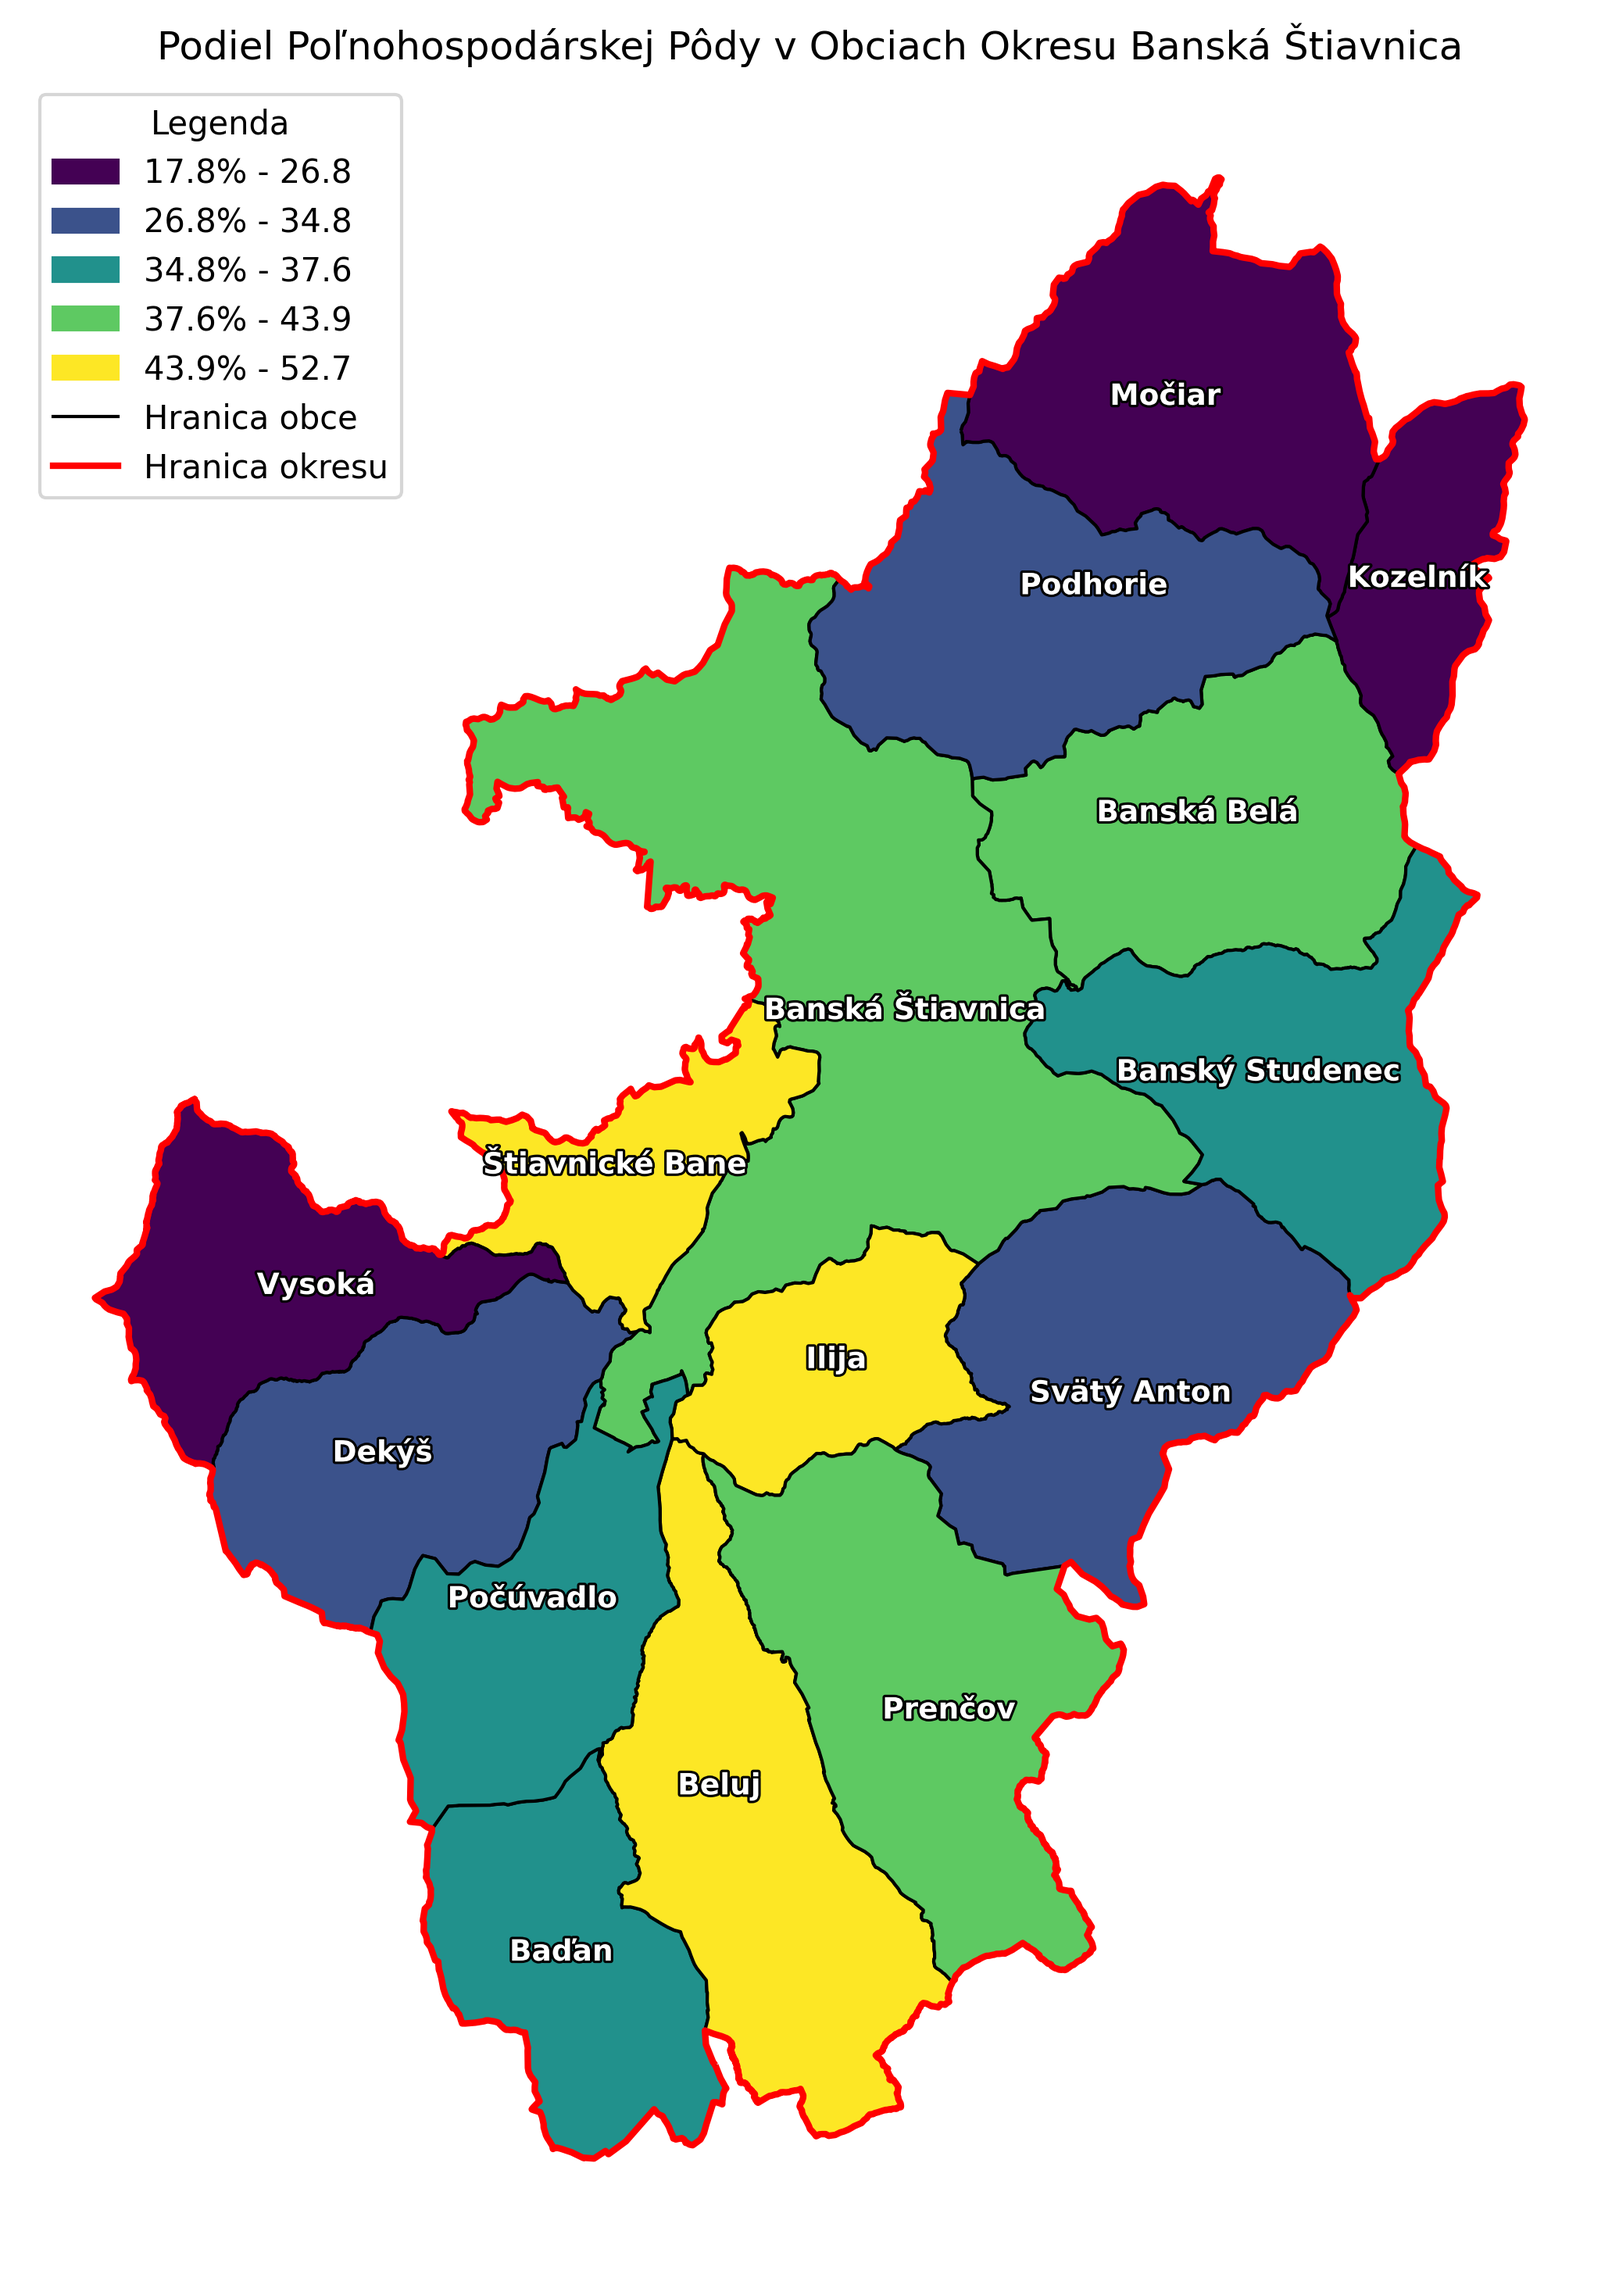
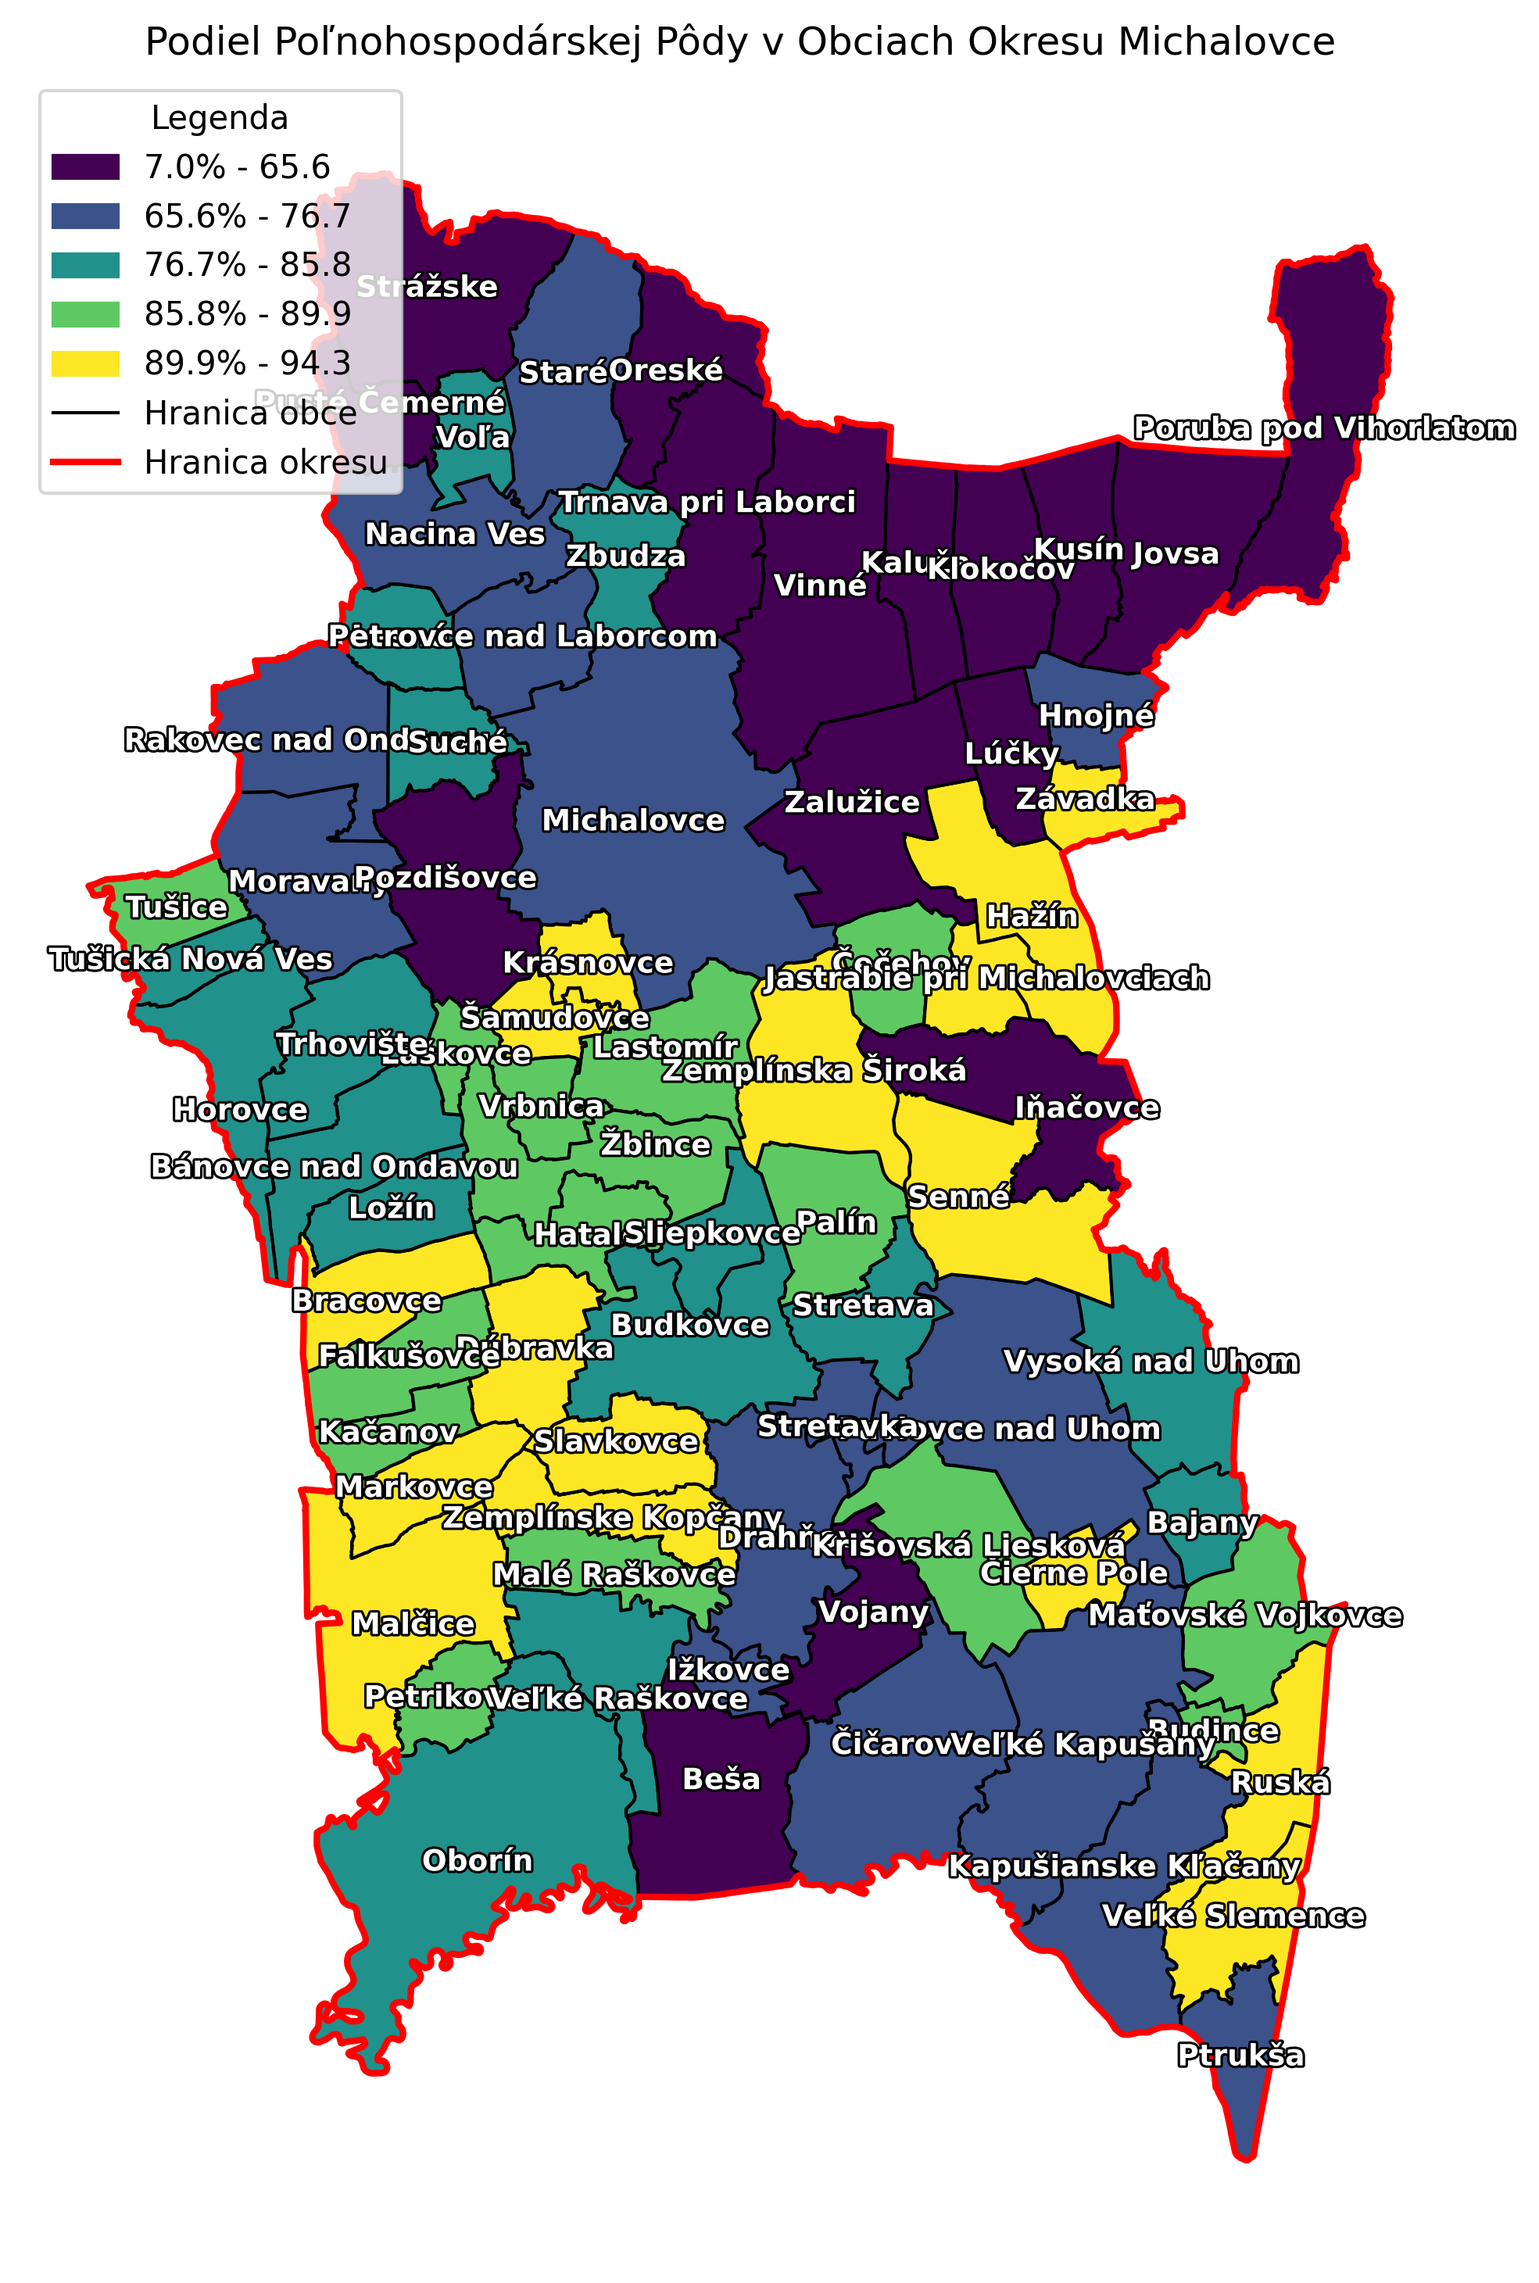
feat: full dynamic data fetching implemented, tested

diff --git a/bs.py b/bs.py
@@ -8,16 +8,16 @@ import zipfile
 import io
 import ckan_api
 import shp_api
+import datacube_api
 
 # Constants and Configurations
 CSV_FILE_PATH = 'data.csv'
 SHP_FILE_PATH = 'shp/obec_0.shp'
-DISTRICT_NAME = 'Banská Štiavnica'
 COLUMN_NAME = 'Podiel poľnohosp. pôdy z celkovej plochy (%)'
 NUM_CLASSES = 5
 COLOR_MAP = plt.colormaps['viridis']
 OUTPUT_FILE = 'mapa.png'
-MAP_TITLE = 'Podiel Poľnohospodárskej Pôdy v Obciach Okresu Banská Štiavnica'
+MAP_TITLE = 'Podiel Poľnohospodárskej Pôdy v Obciach Okresu'
 LEGEND_TITLE = 'Legenda'
 
 SHP_ZIP_URL = 'https://www.geoportal.sk/files/zbgis/na_stiahnutie/shp/ah_shp_0.zip'
@@ -28,26 +28,43 @@ MUNICIPALITY_BORDER_WIDTH = 1
 DISTRICT_BORDER_COLOR = 'red'
 DISTRICT_BORDER_WIDTH = 2
 
-def load_data(csv_file_path, shp_file_path):
+def load_data(shp_file_path):
     """
-    Loads CSV and shapefile data.
+    Loads shapefile data.
 
     Args:
-        csv_file_path (str): Path to the CSV file.
         shp_file_path (str): Path to the shapefile.
 
     Returns:
-        tuple: Tuple containing the CSV data as a pandas DataFrame and shapefile data as a GeoDataFrame.
+        GeoDataFrame: Shapefile data as a GeoDataFrame.
 
     Raises:
         IOError: If there is an error loading the data.
     """
     try:
-        csv_data = pd.read_csv(csv_file_path)
         shp_data = gpd.read_file(shp_file_path)
     except Exception as e:
         raise IOError(f"Error loading data: {e}")
-    return csv_data, shp_data
+    return shp_data
+
+def load_data_from_api(municipality_name, municipality_code=None):
+    """
+    Loads data for a given municipality using the API.
+
+    Args:
+        municipality_name (str): Name of the municipality.
+
+    Returns:
+        DataFrame: DataFrame containing the data for the municipality.
+    """
+    api_data = datacube_api.get_land_data(municipality_name, municipality_code)
+    if api_data is not None:
+        calc_data = {'Podiel poľnohosp. pôdy z celkovej plochy (%)': (
+            (api_data['Agricultural land in total in m2'] / api_data['Total area of land of municipality-town in m2']) * 100
+        )}
+        calculated_data_df = pd.DataFrame(data=calc_data, index=[municipality_name])
+        return calculated_data_df
+    return None
 
 def validate_data(merged_data, csv_data):
     """
@@ -60,7 +77,7 @@ def validate_data(merged_data, csv_data):
     Raises:
         ValueError: If there are missing municipalities in the merged data.
     """
-    missing_data = set(csv_data['Obec']) - set(merged_data['NM4'])
+    missing_data = set(csv_data.index) - set(merged_data['NM4'])
     if missing_data:
         raise ValueError(f"Missing data for municipalities: {missing_data}")
 
@@ -78,7 +95,7 @@ def merge_datasets(shp_data, csv_data, district_name):
         GeoDataFrame: Merged and filtered data.
     """
     filtered_data = shp_data[shp_data['LAU1'] == district_name]
-    merged_data = pd.merge(filtered_data, csv_data, left_on='NM4', right_on='Obec')
+    merged_data = pd.merge(filtered_data, csv_data, left_on='NM4', right_index=True)
     validate_data(merged_data, csv_data)
     return merged_data
 
@@ -112,13 +129,13 @@ def create_legend_elements(num_classes, quantiles, cmap):
         plt.Line2D([0], [0], color=DISTRICT_BORDER_COLOR, lw=DISTRICT_BORDER_WIDTH, label='Hranica okresu'))
     return legend_elements
 
-def setup_plot():
+def setup_plot(district_name):
     fig, ax = plt.subplots(1, 1, figsize=(10, 10))
-    ax.set_title(MAP_TITLE)
+    ax.set_title(MAP_TITLE+' '+district_name)
     ax.set_axis_off()
     return fig, ax
 
-def plot_map(merged_data, classified_data, quantiles):
+def plot_map(merged_data, classified_data, quantiles, district_name):
     """
     Plots the map with the classified data.
 
@@ -127,7 +144,7 @@ def plot_map(merged_data, classified_data, quantiles):
         classified_data (Series): Classified data.
         quantiles (Series): Quantile values.
     """
-    fig, ax = setup_plot()
+    fig, ax = setup_plot(district_name)
     cmap = COLOR_MAP
     merged_data.assign(cl=classified_data).plot(column='cl', cmap=cmap, linewidth=MUNICIPALITY_BORDER_WIDTH, ax=ax,
                                                 edgecolor=MUNICIPALITY_BORDER_COLOR)
@@ -160,14 +177,28 @@ shp_api.download_and_unzip_shp(SHP_ZIP_URL)
 if districts is not None:
     print("Available Districts: \n", districts['countyName'].to_string())
     try:
-        district_index = int(input("Enter desired district index: "))
+        district_index = 75#int(input("Enter desired district index: "))
         selected_district = districts.iloc[district_index]
-        print("Selected district: ", selected_district['countyName'])
+        selected_district_string = selected_district['countyName']
+        print("Vybraný okres: ", selected_district_string)
 
         municipalities = ckan_api.fetch_municipalities(selected_district['objectId'])
         if municipalities is not None:
-            print(municipalities['municipalityName'].to_string())
-    except ValueError:
-        print("Invalid input. Please enter a valid integer.")
-    except IndexError:
-        print("Index out of range. Please enter a valid district index.")
+            print("Obce okresu:\n",municipalities['municipalityName'].to_string())
+            municipalities_land_data = pd.DataFrame()
+            for index, municipality in municipalities.iterrows():
+                municipalityName = municipality['municipalityName']
+                municipalityCode = municipality['municipalityCode']
+                muni_land_data = load_data_from_api(municipalityName, municipalityCode)
+                municipalities_land_data = pd.concat([municipalities_land_data, muni_land_data])
+
+            shp_data = load_data(SHP_FILE_PATH)
+
+            merged_data = merge_datasets(shp_data, municipalities_land_data, selected_district_string)
+            classified_data, quantiles = classify_data(merged_data, COLUMN_NAME, NUM_CLASSES)
+            plot_map(merged_data, classified_data, quantiles, selected_district_string)
+
+    except ValueError as e:
+        print("Invalid input. Please enter a valid integer:", e)
+    except IndexError as e:
+        print("Index out of range. Please enter a valid district index:", e)

diff --git a/datacube_api.py b/datacube_api.py
@@ -164,15 +164,16 @@ def get_city_data(api, city_code, year, indicators):
     return data
 
 @memory.cache
-def get_land_data(city_name):
+def get_land_data(city_name, city_code=None):
     """
     The main function to execute the API wrapper functionality.
     """
     # Initialize API
     api = DatacubeAPI()
 
-    # Search for city and get code
-    city_code = search_city_get_code(api, city_name)
+    # Search for city and get code if not present
+    if not city_code:
+        city_code = search_city_get_code(api, city_name)
 
     if city_code:
         # Get the latest year and all indicators
@@ -188,5 +189,3 @@ def get_land_data(city_name):
     else:
         print(f"City '{city_name}' not found.")
         return None
-
-print(get_land_data('Sobrance').iloc[0])

diff --git a/ckan_api.py b/ckan_api.py
@@ -40,7 +40,7 @@ def fetch_municipalities(district_id):
     """
     try:
         params = {
-            'sql': f"SELECT * from \"15262453-4a0f-4cce-a9e4-7709e135e4b8\" WHERE \"countyIdentifier\"='{district_id}'"}
+            'sql': f"SELECT * from \"15262453-4a0f-4cce-a9e4-7709e135e4b8\" WHERE \"countyIdentifier\"='{district_id}' AND \"municipalityCode\" LIKE 'SK%'"}
         response = requests.get(CKAN_MUNICIPALITY_BASE_URL, params=params)
         response.raise_for_status()
         data = response.json()
